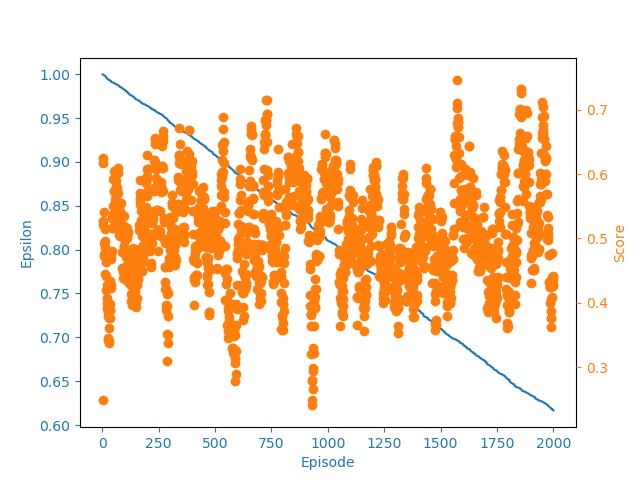
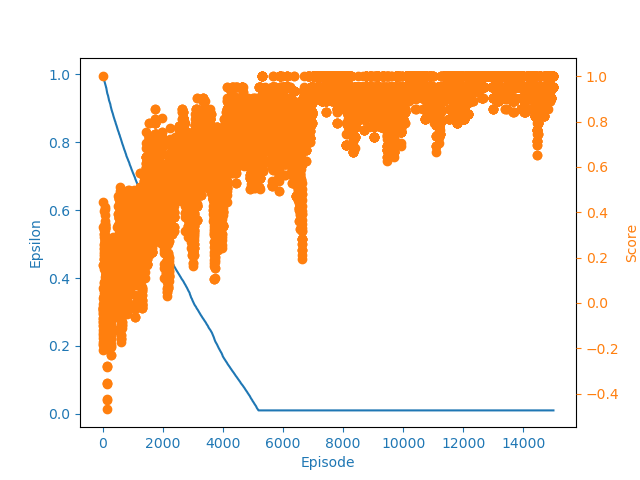
add min max scaling

diff --git a/prototype_1/train.py b/prototype_1/train.py
@@ -7,7 +7,7 @@ from custom_types import MTDTechnique, Behavior
 from data_manager import DataManager
 from prototype_1.environment import SensorEnvironment
 from prototype_1.agent import Agent, DeepQNetwork
-from utils.utils import plot_learning
+from utils.utils import plot_learning, seed_random
 from time import time
 import numpy as np
 import random
@@ -15,19 +15,21 @@ import random
 # Hyperparams
 GAMMA = 0.99
 BATCH_SIZE = 100
-BUFFER_SIZE = 50000
+BUFFER_SIZE = 500
 MIN_REPLAY_SIZE = 100
 EPSILON_START = 1.0
-EPSILON_END = 0.02
+EPSILON_END = 0.01
 TARGET_UPDATE_FREQ = 100
-LEARNING_RATE = 0.00001
-N_EPISODES = 2000
+LEARNING_RATE = 1e-5
+N_EPISODES = 15000
 LOG_FREQ = 100
 
 if __name__ == '__main__':
+    seed_random()
     start = time()
-    # read in all data for a simulated, supervised environment to sample from
-    env = SensorEnvironment(DataManager.parse_all_behavior_data())
+
+    # read in all preprocessed data for a simulated, supervised environment to sample from
+    env = SensorEnvironment(DataManager.get_scaled_all_data())
 
     agent = Agent(input_dims=env.observation_space_size, n_actions=len(env.actions), buffer_size=BUFFER_SIZE,
                   batch_size=BATCH_SIZE, lr=LEARNING_RATE, gamma=GAMMA, epsilon=EPSILON_START, eps_end=EPSILON_END)

diff --git a/data_manager.py b/data_manager.py
@@ -1,6 +1,7 @@
 from typing import Dict
 from custom_types import Behavior
 from scipy import stats
+from sklearn.preprocessing import MinMaxScaler, StandardScaler
 from tabulate import tabulate
 import numpy as np
 import pandas as pd
@@ -116,6 +117,20 @@ class DataManager:
 
         full_df.to_csv(file_name, index_label=False)
         return full_df
+
+    @staticmethod
+    def get_scaled_all_data(scaling_minmax=True):
+        all_data = DataManager.parse_all_files_to_df().to_numpy()[:,:-1]
+        scaler = StandardScaler() if not scaling_minmax else MinMaxScaler()
+        scaler.fit(all_data)
+
+        bdata = DataManager.parse_all_behavior_data()
+        scaled_bdata = {}
+        # return directory as
+        for b in bdata:
+            scaled_bdata[b] = np.hstack((scaler.transform(bdata[b][:, :-1]), np.expand_dims(bdata[b][:,-1], axis=1)))
+
+        return scaled_bdata
 
     @staticmethod
     def show_data_availability(raw=False):

diff --git a/utils/utils.py b/utils/utils.py
@@ -1,5 +1,7 @@
 import matplotlib.pyplot as plt
 import numpy as np
+import torch
+import random
 
 def plot_learning(x, returns, epsilons, filename):
     fig=plt.figure()
@@ -29,3 +31,8 @@ def plot_learning(x, returns, epsilons, filename):
     ax2.tick_params(axis='y', colors="C1")
 
     plt.savefig(filename)
+
+def seed_random():
+    random.seed(42)
+    torch.random.manual_seed(42)
+    np.random.seed(42)

diff --git a/prototype_1/agent.py b/prototype_1/agent.py
@@ -48,7 +48,7 @@ class DeepQNetwork(nn.Module):
 
 class Agent:
     def __init__(self, input_dims, n_actions, batch_size,
-                 lr, gamma, epsilon, eps_end=0.02, eps_dec=5e-5, buffer_size=100000):
+                 lr, gamma, epsilon, eps_end=0.02, eps_dec=1e-4, buffer_size=100000):
         self.gamma = gamma
         self.epsilon = epsilon
         self.eps_min = eps_end

diff --git a/prototype_1/environment.py b/prototype_1/environment.py
@@ -89,4 +89,4 @@ class SensorEnvironment:
         if success:
             return 1
         else:
-            return 0 #-1
+            return -1
